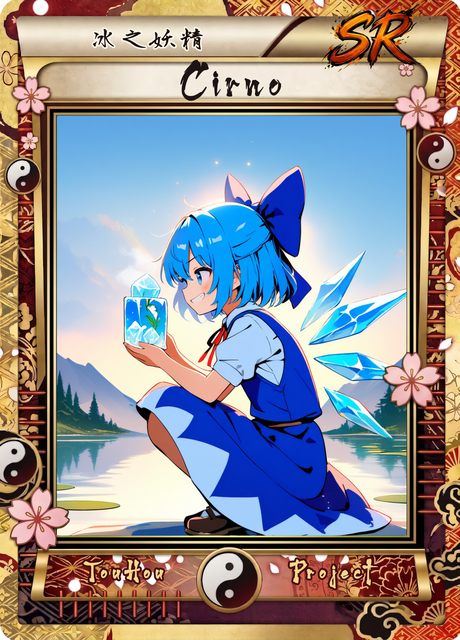
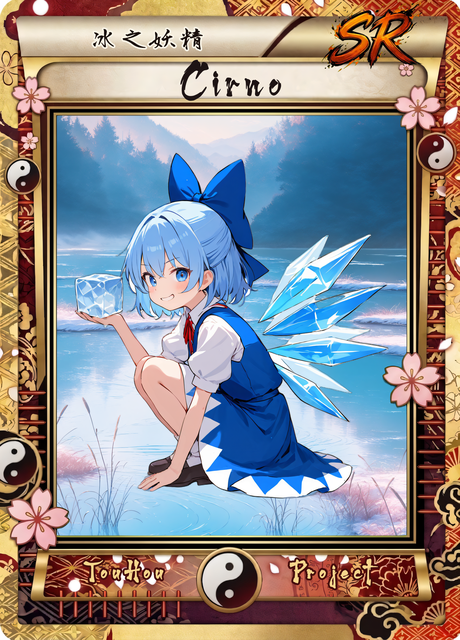
feat: 0.30.014 靈夢、魔理沙、琪露諾 SR / SSR 重生卡面

diff --git a/tools/card_art/layered/hd_card.py b/tools/card_art/layered/hd_card.py
@@ -590,6 +590,173 @@ LAYERS = {
         "char_negative": "patchouli knowledge, purple hair, hat, remilia scarlet",
         "char_scale": 0.8,
     },
+    # 博麗靈夢 SR / SSR (主角，舊版單張生成卡改走高清分層，2026-11-12 草稿)
+    # 萌娘百科外貌：黑髮 (「黑長直」「齊劉海」「長鬢角」，部分作品是短髮)、瞳色不固定 (黑瞳或紅瞳)；
+    # 頭上大蝴蝶結、兩鬢用髮帶綁起 (束鬢、半馬尾)；露肩露腋的無袖巫女服 + 分離袖子、胸前領巾、紅裙 (緋袴)、纏胸布、
+    # 白色短襪 + 瑪麗珍鞋；道具：御幣、符札、封魔針、陰陽玉 (博麗神社最大的秘寶)
+    # make_workflow.BASE 沒寫髮色 ➔ base 補上 black hair、brown eyes、sidelocks、hair tubes、white socks、mary janes
+    # 跟 UR (夜空 + 博麗大結界、正面仰拍、陰陽玉獨立圖層) 拉開：SR 白天神社日常、SSR 黃昏天空中施放符札的動態
+    ("reimu", "SR"): {
+        # SR「博麗神社的巫女」：春天的博麗神社 (鳥居、石階、櫻花)；微微浮在參道上，扛著御幣，輕鬆隨性地笑
+        "bg": ("no humans, scenery, hakurei shrine grounds, huge cherry blossom tree in the foreground center, thick tree trunk, "
+               "grass and fallen petals at the base of the tree, shrine building and red torii behind the tree, stone lanterns, "
+               "falling petals, spring, blue sky, daylight, soft lighting, peaceful, bright, highly detailed, intricate details"),   # 使用者：倚在神社櫻花樹下 ➔ 樹畫在背景，人物坐在樹根
+        "bg_negative": "1girl, person, human, character, face, text, watermark, lowres, worst quality, low quality, blurry, frame, border, night, dark",
+        "base": ("1girl, hakurei reimu, touhou, black hair, long hair, blunt bangs, sidelocks, hair tubes, brown eyes, "
+                 "red bow, large bow, frilled bow, red and white miko outfit, sleeveless, bare shoulders, detached sleeves, wide sleeves, "
+                 "yellow ascot, red skirt, white socks, mary janes"),
+        "char": ("sitting on the ground under a cherry blossom tree, leaning back against the tree trunk, tree trunk behind her, "
+                 "cherry blossom branches above, falling petals, knees up, holding gohei over shoulder, relaxed smile, half-closed eyes, "
+                 "carefree, looking at viewer, full body"),   # 使用者 (2026-11-12)：喜歡 C4 的坐姿，改成倚在神社的櫻花樹下 (樹畫在人物層，去背一起留下)
+        "char_negative": "kirisame marisa, witch hat, blonde hair, wings, multiple girls, magic circle, glowing effects, "
+                         "nsfw, nipples, cleavage",
+        "char_scale": 0.62,
+        "offset": (0.0, 0.17),   # 人物縮小、往下放到樹根
+        
+    },
+    ("reimu", "SSR"): {
+        # SSR「樂園的奇妙巫女」：黃昏的幻想鄉天空，博麗神社在遠遠的下方、櫻花被風捲起；
+        # 斜身飛行、指間夾著符札甩出，兩顆陰陽玉在身旁，堅定的笑 (UR 是正面俯視的強者感，這張是側身的速度感)
+        "bg": ("no humans, scenery, sky above gensokyo, golden hour, sunset, orange and pink clouds, sunlight, light rays, "
+               "hakurei shrine and torii far below on a mountain, cherry blossom petals swirling in the wind, "
+               "wide view, dramatic, warm colors, highly detailed, intricate details"),
+        "bg_negative": "1girl, person, human, character, face, text, watermark, lowres, worst quality, low quality, blurry, frame, border, night",
+        "base": ("1girl, hakurei reimu, touhou, black hair, long hair, blunt bangs, sidelocks, hair tubes, brown eyes, "
+                 "red bow, large bow, frilled bow, red and white miko outfit, sleeveless, bare shoulders, detached sleeves, wide sleeves, "
+                 "yellow ascot, red skirt, white socks, mary janes"),
+        "char": ("flying, dynamic pose, leaning forward, holding gohei, throwing ofuda, ofuda between fingers, "
+                 "two yin yang orbs beside her, determined smile, looking at viewer, wind, sleeves fluttering, "
+                 "hair ribbon fluttering, skirt fluttering, both legs visible, full body"),
+        "char_negative": "kirisame marisa, witch hat, blonde hair, wings, multiple girls, magic circle, barrier, rainbow, "
+                         "nsfw, nipples, cleavage, panties",
+        "char_scale": 0.9,
+    },
+    # ── 霧雨魔理沙 SR / SSR (2026-11-12 從舊的單張生成改走高清分層) ──
+    # 萌娘百科外貌：金色長髮 (及肩到及腰、微捲)，一側編成麻花辮垂在胸前，辮子綁蝴蝶結；瞳色金 (少數作品紅瞳)；
+    # 寬大的黑色三角巫師帽 (尖頂寬簷)，帽上有大蝴蝶結 (多為白色)；黑色魔女裝 + 白圍裙 (紅魔鄉是全身圍裙，之後是半身圍裙)、泡泡袖；
+    # 白短襪 + 樂福鞋 / 瑪麗珍鞋；隨身帶掃帚與迷你八卦爐 (八角形、刻八卦圖)。沒有翅膀、沒有尾巴
+    # BASE 沒有跟萌娘百科衝突，只補上金眼、帽子白蝴蝶結、泡泡袖、半身圍裙、鞋襪 (不寫眼睛顏色的話有機會畫成紅眼)
+    # UR 是夜空 + 騎掃帚 + Master Spark ➔ SR / SSR 都放在白天，SR 站著不騎、SSR 完全不畫掃帚，跟 UR 拉開
+    ("marisa", "SR"): {
+        # SR「普通的魔法使」：原本的構想是白天騎掃帚穿過魔法森林 ➔ 改成白天魔法森林裡自己家 (霧雨魔法店) 門口，
+        # 一手直握掃帚 (刷毛著地)、一手捧著剛採的發光蘑菇，咧嘴笑加眨眼，日常又有朝氣
+        "bg": ("no humans, scenery, forest of magic, giant mushrooms, glowing mushrooms, small cluttered western cottage, wooden sign, "
+               "piles of books and jars by the door, sunlight through trees, light rays, dappled light, moss, ferns, daytime, bright, "
+               "lush green, whimsical, highly detailed, intricate details"),
+        "bg_negative": "1girl, person, human, character, face, broom, witch hat, text, watermark, lowres, worst quality, low quality, blurry, frame, border, night, dark",
+        "base": ("1girl, kirisame marisa, touhou, blonde hair, long hair, wavy hair, single side braid, hair bow, yellow eyes, "
+                 "witch hat, black headwear, white bow on hat, black dress, white shirt, puffy short sleeves, white apron, waist apron, "
+                 "white socks, black shoes"),
+        "char": ("standing, one hand holding a broom upright beside her, broom bristles on the ground, single broom, "
+                 "other hand holding up a glowing mushroom, grin, one eye closed, wink, energetic, cheerful, looking at viewer, "
+                 "hair fluttering, full body"),
+        # 共用的 EXTRA_NEGATIVE 會擋「standing, holding broom」，這張剛好要站著拿掃帚 ➔ 換掉，改成擋騎掃帚
+        "extra_negative": "riding broom, sitting on broom, flying, broom on shoulder",
+        "char_negative": ("red eyes, wings, multiple brooms, two brooms, bristles on both ends, extra hat, floating hat, "
+                          "magic effects, sparkles, stars, laser, mushrooms on ground, alice margatroid, hakurei reimu"),
+        "char_scale": 0.9,
+    },
+    ("marisa", "SSR"): {
+        # SSR「東洋的西洋魔術師」：原本的構想是白天在魔法森林上空高速飛、星星彈幕與魔法陣 ➔ 保留白天藍天 + 森林上空 (跟 UR 的夜空分開)，
+        # 不騎掃帚 (UR 已經騎了)：跳到半空、一手按住帽子、一手把迷你八卦爐往前伸，爐口噴出星星，自信大笑
+        "bg": ("no humans, scenery, above the forest of magic, sea of treetops below, giant mushrooms poking out of the canopy, "
+               "bright blue sky, big white clouds, sunlight, lens flare, wind, flying leaves, daytime, vivid colors, "
+               "highly detailed, intricate details"),
+        "bg_negative": "1girl, person, human, character, face, broom, witch hat, text, watermark, lowres, worst quality, low quality, blurry, frame, border, night, dark",
+        "base": ("1girl, kirisame marisa, touhou, blonde hair, long hair, wavy hair, single side braid, hair bow, yellow eyes, "
+                 "witch hat, black headwear, white bow on hat, black dress, white shirt, puffy short sleeves, white apron, waist apron, "
+                 "white socks, black shoes"),
+        "char": ("midair, jumping, dynamic pose, one hand holding hat brim, other arm stretched forward holding glowing mini-hakkero, "
+                 "octagonal hakkero, star (symbol), stars bursting from the hakkero, confident grin, open mouth, looking at viewer, "
+                 "hair flowing in wind, hat ribbon flowing, skirt fluttering, slightly from below, full body"),
+        # 這張不要掃帚 ➔ 換掉共用的 EXTRA_NEGATIVE (它只擋拿掃帚，沒擋騎掃帚)
+        "extra_negative": "broom, holding broom, riding broom, sitting on broom, broom on shoulder",
+        "char_negative": ("red eyes, wings, extra hat, floating hat, laser, beam, huge magic circle, background scenery, "
+                          "alice margatroid, hakurei reimu, panties, upskirt"),
+        "char_scale": 0.9,
+    },
+    # 琪露諾 SR / SSR (TH06，2026-11-12 草稿，舊單張卡改走高清分層)：外觀照 make_workflow.BASE 與 UR
+    # (萌娘百科這次打不開，沒核對)：藍色短髮、藍眼、藍色大蝴蝶結、白襯衫 + 泡泡短袖、紅色領結、藍色背心裙、
+    # 背後六片冰晶翅膀、小孩身材；萌點：笨蛋⑨、自稱最強、愛凍青蛙、霧之湖
+    # 翅膀：UR 用翅膀層；SR / SSR 先讓人物直接帶冰晶翅膀 (inline_wings，寫法照大妖精)，base 拿掉 BASE 的翅膀標籤，免得跟 inline_wings_tags 重複
+    ("cirno", "SR"): {
+        # SR「冰之妖精」：清晨霧之湖邊 (蘆葦、睡蓮葉)；蹲著得意舉起剛凍住的青蛙 (青蛙包在冰塊裡)，調皮又天真
+        "bg": ("no humans, scenery, misty lake, lakeside, morning fog, reeds, lily pads, calm water, ripples, thin ice on water edge, "
+               "frost on grass, soft sunlight, daytime, bright, pale blue sky, distant forest, pastel colors, highly detailed"),
+        "bg_negative": "1girl, person, human, character, face, wings, frog, animal, text, watermark, lowres, worst quality, low quality, blurry, frame, border, night, dark",
+        "base": ("1girl, cirno, touhou, blue hair, short hair, blue eyes, blue hair bow, large bow, white shirt, puffy short sleeves, "
+                 "red neck ribbon, blue dress, pinafore dress, child, petite"),
+        "char": ("squatting, both feet on ground, holding up a frozen frog, frog in ice block, ice cube, arm raised, proud grin, "
+                 "mischievous, innocent, open mouth, looking at viewer, frost particles around hand, hair fluttering, from side"),
+        "char_negative": "(fairy wings:1.3), insect wings, transparent wings, butterfly wings, angel wings, weapon, staff, wand, "
+                         "water, splash, reeds, lily pad, multiple frogs, danmaku",
+        "inline_wings": True,
+        "inline_wings_tags": "ice wings, six ice crystal wings, ice crystal wings, clear blue ice, wings spread",
+        "char_scale": 0.9,
+    },
+    ("cirno", "SSR"): {
+        # SSR「湖上的冰精女王」：結冰的湖面中間一座冰山，晴空、冰柱和雪花飛舞 (冰山在背景裡，人物站在下方中央的冰山頂上)；
+        # 一手插腰一手比 V、張嘴大笑，自信又得意；冰塊冰柱只當背景與手邊的冰晶，不做成彈幕 (SSR 沒有彈幕)
+        "bg": ("no humans, scenery, frozen lake, ice field, large iceberg in the foreground center, jagged ice peak, icicles, "
+               "ice shards in the air, flying ice chunks, snowflakes, sparkles, clear blue sky, white clouds, wind, "
+               "daytime, bright, crisp, cold, dynamic angle, highly detailed, intricate details"),
+        "bg_negative": "1girl, person, human, character, face, wings, text, watermark, lowres, worst quality, low quality, blurry, frame, border, night, dark",
+        "base": ("1girl, cirno, touhou, blue hair, short hair, blue eyes, blue hair bow, large bow, white shirt, puffy short sleeves, "
+                 "red neck ribbon, blue dress, pinafore dress, child, petite"),
+        "char": ("standing, feet apart, both legs visible, hand on hip, v sign, laughing, open mouth, confident, smug, v-shaped eyebrows, "
+                 "small ice shards swirling around her, frost particles, hair fluttering, dress fluttering, wind, slightly from below"),
+        "char_negative": "(fairy wings:1.3), insect wings, transparent wings, butterfly wings, angel wings, weapon, staff, wand, "
+                         "iceberg, ground, rock, danmaku, bullets",
+        "inline_wings": True,
+        "inline_wings_tags": "ice wings, six ice crystal wings, ice crystal wings, clear blue ice, wings spread",
+        "char_scale": 0.9,
+    },
+    ("mima", "SR"): {
+        # SR「久遠的博麗神社惡靈」(沿用舊 SCENES)：荒廢的舊博麗神社 (青苔、雜草、舊鳥居、午後陽光、螢火蟲)；人物在空中盤腿悠哉飄著、調皮地笑
+        "bg": ("no humans, scenery, old abandoned shinto shrine, overgrown, moss, tall grass, weathered old torii, small stone shrine, stone lanterns, "
+               "afternoon, warm sunlight, light rays through trees, fireflies, peaceful, nostalgic, soft lighting, highly detailed"),
+        "bg_negative": "1girl, person, human, character, face, ghost, text, watermark, lowres, worst quality, low quality, blurry, frame, border, night, dark",
+        "base": ("1girl, mima (touhou), touhou, green hair, very long hair, green eyes, wizard hat, white headwear, "
+                 "blue dress, blue skirt, blue cape, red ribbon, neck ribbon, ghost tail, no legs, holding staff, crescent staff"),
+        "char": ("floating in the air, ghost tail, no legs, relaxed pose, sitting cross-legged in the air, chin resting on hand, "
+                 "mischievous smile, looking at viewer, cape fluttering, hair flowing, full body"),
+        "char_negative": "(legs:1.3), (feet:1.3), shoes, socks, thighhighs, standing, kneeling, wings, marisa, kirisame marisa, blonde hair",
+        "char_scale": 0.9,
+    },
+    ("mima", "SSR"): {
+        # SSR「祟高而冷酷的惡靈」(沿用舊 SCENES)：舊神社上空，藍天白雲；舉起月牙杖施法、冷笑、半閉眼，披風被風吹起，四周飄著靈體光絲
+        # N~SSR 沒有彈幕：舊 SCENES 寫的 star danmaku / magic circle 拿掉，只留杖頭的藍色魔法光 (SSR 的閃光 build_cards 會自動加)
+        "bg": ("no humans, scenery, sky above an old shinto shrine, shrine roof and torii far below, blue sky, dramatic clouds, wind, "
+               "spectral wisps, faint blue mist, light rays, dynamic, highly detailed, intricate details"),
+        "bg_negative": "1girl, person, human, character, face, ghost, text, watermark, lowres, worst quality, low quality, blurry, frame, border, night",
+        "base": ("1girl, mima (touhou), touhou, green hair, very long hair, green eyes, wizard hat, white headwear, "
+                 "blue dress, blue skirt, blue cape, red ribbon, neck ribbon, ghost tail, no legs, holding staff, crescent staff"),
+        "char": ("floating, ghost tail, no legs, raising staff, crescent staff, casting spell, glowing staff tip, blue magic, "
+                 "cold smile, half-closed eyes, looking down at viewer, cape fluttering, hair flowing, wind, dynamic pose, dynamic angle, full body"),
+        "char_negative": "(legs:1.3), (feet:1.3), shoes, socks, thighhighs, standing, wings, marisa, kirisame marisa, blonde hair, danmaku, magic circle",
+        "char_scale": 0.9,
+    },
+    ("mima", "UR"): {
+        # UR「憑依博麗之陰影」(沿用舊 SCENES)：雲層之上的夜空、背後巨大的月牙 / 滿月 (月光下會變強)；
+        # 杖高舉過頭、眼睛發光、自信的邪笑，全身藍色靈體光焰，披風與長髮大幅翻飛。背景壓暗紫藍色，彈幕才跳得出來
+        "bg": ("no humans, scenery, night sky above the clouds, sea of clouds, huge crescent moon, bright moonlight, starry sky, "
+               "faint blue spectral flames, ghostly mist, deep navy blue and purple, dark, dramatic, cinematic, majestic, highly detailed, intricate details"),
+        "bg_negative": "1girl, person, human, character, face, ghost, text, watermark, lowres, worst quality, low quality, blurry, frame, border, daytime, blue sky, sun",
+        "base": ("1girl, mima (touhou), touhou, green hair, very long hair, green eyes, wizard hat, white headwear, "
+                 "blue dress, blue skirt, blue cape, red ribbon, neck ribbon, ghost tail, no legs, holding staff, crescent staff"),
+        "char": ("floating high, ghost tail, no legs, staff raised overhead, crescent staff, glowing staff, "
+                 "glowing eyes, green eyes, confident, evil smile, menacing, looking at viewer, "
+                 "ghostly blue aura, spectral flames, cape billowing, hair flowing, backlighting, rim light, dynamic angle, from below, full body"),
+        "char_negative": "(legs:1.3), (feet:1.3), shoes, socks, thighhighs, standing, marisa, kirisame marisa, blonde hair, magic circle, danmaku, happy",
+        # 封魔錄第三形態的六隻紫色翅膀 (萌娘百科萌點有翅膀)：要的話參照 remilia 的寫法打開，但會增加畫壞的機率
+        # "inline_wings": True,
+        # "inline_wings_tags": "six wings, multiple wings, purple wings, wings spread",
+        "style": "twilight",   # 新風格提案 (danmaku.py 要另外做)；還沒做之前先用 "stars"
+        "density": 0.72,
+        "glow": 0.55,
+        "char_scale": 0.8,
+        "light": {"dark": 0.35, "eyes": [], "eye_color": (90, 255, 150), "eye": 1.3, "eye_size": 3},   # 綠瞳發光；eyes 座標等人物定案後量
+    },
 }
 
 

diff --git a/Utils/version.py b/Utils/version.py
@@ -6,4 +6,4 @@
 
 每次 commit 都要更新這裡和 CHANGELOG.md。
 """
-VERSION = "0.30.013"
+VERSION = "0.30.014"

diff --git a/CHANGELOG.md b/CHANGELOG.md
@@ -13,6 +13,16 @@
 
 ---
 
+## 0.30.014 — 2026-11-12：靈夢、魔理沙、琪露諾 SR / SSR 重生 (筆電)，三人卡面全部高清分層
+- **⛩ 博麗靈夢**：SR 神社櫻花樹下倚著樹幹坐 (背景 E1 + 人物 D1)；SSR 黃昏空中施放符札 (B2 + C1)。外貌照萌娘百科補黑髮、髮帶束鬢、白襪瑪麗珍鞋。
+- **🧹 霧雨魔理沙**：SR「普通的魔法使」魔法森林蘑菇屋前眨眼笑 (B1 + C4)；SSR「東洋的西洋魔術師」巨樹與蘑菇間跳起、雙手八卦爐 (B1 + C2)。
+- **❄ 琪露諾**：SR「冰之妖精」霧湖邊蹲著拿冰塊 (B1 + C1)；SSR「湖上的冰精女王」冰山前比 V (B2 + C3)。冰翅膀直接畫在人物上 (`inline_wings`)，去背後有保留。
+- `hd_card.py` 加了魅魔 SR / SSR / UR 的草稿設定 (UR 用新彈幕風格 `twilight`，還沒寫)，候選生成中。
+- 問題：
+  - 靈夢 SR 要倚著樹，人物層去背把樹和草地一起切掉；試過保留遮罩會留下一塊方形 ➔ 樹改畫在背景，人物照常去背、用 `char_scale` 0.62 / `offset` 放到樹根，使用者選 E1 + D1。
+  - 筆電 ComfyUI 兩次在生圖時同時去背而崩潰 ➔ 角色之間先停生圖、清佇列再合成，合成完再接著跑下一位 (寫進 `docs/card-art.md`)。
+  - pull 時 `hd_card.py` 跟桌機新增的露米婭 / 小惡魔設定衝突 ➔ 兩邊都保留。
+
 ## 0.30.013 — 2026-11-12：露米婭 R / SR / SSR、小惡魔 N / R / SR 卡面 (桌機)，TH06 全部完成
 - **🌑 露米婭**：R「宵暗的妖怪」黃昏森林小路張開雙臂 (B1 + C1)；SR「暗夜的吞噬者」無月夜林、身邊黑暗漩渦 (B1 + C1)；SSR「封印解放之宵暗」紅月 + 黑暗觸手背景 (B1 + C2)。外貌照萌娘百科 (金色短髮、紅眼、紅髮帶 = 封印符、黑白洋裝)，原作沒有翅膀。
 - **📚 小惡魔**：N「大圖書館的使魔」抱一疊書 (B1 + C1)；R「司書的助手小惡魔」書架前「噓～」(B1 + C1)；SR「黑魔法秘典守護者」禁書區抱發光魔法書、紫色魔法陣 (B1 + C3)。原作沒有立繪，照同人通用外觀 (紅長髮、頭翼 + 背翼、黑背心紅領帶)，翅膀直接寫在人物提示裡。

diff --git a/TODO.md b/TODO.md
@@ -7,7 +7,7 @@
 - **神社廚房**：採集 (用體力) → 料理 → 招待參拜客 (12 種客人都有頭像)、雜貨店。
 - **活動**：活動系統 + 🔴 紅霧異變 (測試中，沒有結束時間)；各機制都有「一般池 + 活動預留位」(見 `Events/README.md`)。
 - **通知**：/notify 主動私訊 (每 10 分鐘檢查)。
-- **卡面**：全部改走高清分層流程 (第 1 節)。TH06 全部完成 (琪露諾只有 UR 是新版)。
+- **卡面**：全部改走高清分層流程 (第 1 節)。TH06 全部完成。
 - **開發工具**：botcli / discord_peek 測試、主控台指令、重載控制台；702 項測試全過。
 
 ## 下一步建議 (擇一)
@@ -22,8 +22,8 @@
 
 | 分類 | 角色 | 階級 | 狀態 |
 |---|---|---|---|
-| Main | 靈夢 reimu | SR / SSR / UR | UR ✅ (2026-11-11 彈幕 3 原點、背景壓暗)；SR、SSR 重生 |
-| Main | 魔理沙 marisa | SR / SSR / UR | UR ✅；SR、SSR 重生 |
+| Main | 靈夢 reimu | SR / SSR / UR | ✅ 全部完成 (SR、SSR 2026-11-12 重生) |
+| Main | 魔理沙 marisa | SR / SSR / UR | ✅ 全部完成 (SR、SSR 2026-11-12 重生) |
 | TH01 | 魅魔 mima | SR / SSR / UR | 全部重生 (幽靈尾巴，模型常畫出腳) |
 | TH02 | 玄爺 genji | N / R / SR | 全部重生 (陸龜、白鬍子) |
 | TH02 | 里香 rika | N / R / SR | 全部重生 |
@@ -37,7 +37,7 @@
 | TH05 | 神綺 shinki | SSR / UR / LR | LR 已是分層 (同上)；SSR、UR 重生 (UR 構圖要跟 LR 拉開) |
 | TH05 | 雪與舞 yuki_mai | N / R / SR | 全部重生 (雙人：兩人各自生成去背再合成) |
 | TH05 | 夢子 yumeko | R / SR / SSR | 全部重生 |
-| TH06 | 琪露諾 cirno | SR / SSR / UR | UR ✅ (dim 0.55)；SR、SSR 重生 |
+| TH06 | 琪露諾 cirno | SR / SSR / UR | ✅ 全部完成 (SR、SSR 2026-11-12 重生) |
 | TH06 | 大妖精 daiyousei | N / R / SR | ✅ 0.30.002 完成 (人物直接帶翅膀) |
 | TH06 | 芙蘭朵露 flandre | SSR / UR / LR | ✅ 2026-11-11 (人物直接帶翅膀；LR 稱號改「破壞萬物的禁忌之妹」) |
 | TH06 | 小惡魔 koakuma | N / R / SR | ✅ 0.30.013 (桌機；人物直接帶頭翼 + 背翼) |

diff --git a/docs/card-art.md b/docs/card-art.md
@@ -10,6 +10,8 @@
 - **UR / LR**：彈幕密度使用者偏好少一點 (UR 0.7～0.75、LR 0.7)；背景偏暗、跟彈幕顏色拉開 (紅彈幕配暗紫黑背景)；人物背光 + **眼睛發光** (`light.eyes` 用 10_char 座標量，`eye` 1.3、`eye_size` 3)。局部發光 (水晶、武器) 先做給使用者看，他不喜歡就拿掉 (蕾米莉亞神槍發光偏粉紅，選回原版)。
 - **合成完傳整張卡 (15_card 縮圖) 給使用者看；他問特效再傳 16_card.gif**。
 - **定案才推**：使用者說「定案推送」才 `build_cards.py <角色>` ➔ 更新 `Utils/version.py` (+1)、`CHANGELOG.md`、`TODO.md` 第 1 節、本文件 ➔ `python tests/run_all.py` ➔ `git pull --rebase` ➔ commit + push。試作圖不推。
+- **筆電 (16GB RAM) 生圖時不要同時去背 / 合成**：ComfyUI 生圖約佔 4GB、去背 (BiRefNet CPU) 再吃好幾 GB，2026-11-12 兩次同時跑都讓 ComfyUI 直接崩潰 (Fatal Python error: Aborted)。先讓佇列跑完或暫停，再合成；桌機 16GB VRAM / 記憶體較多沒遇到。
+- **背景道具要跟人物互動時 (倚著樹、坐在椅子上)**：人物層白底去背會把樹、地面一起切掉 ➔ 把樹畫在背景，人物照常去背、用 `char_scale` / `offset` 放到樹根；或像咲夜 / 蕾米莉亞的椅子一樣讓道具留在人物層 (去背模型通常會保留緊貼人物的家具)。
 - **兩台分工**：一台負責一位角色的整套流程；每個階段 (候選完成、使用者選圖、合成完、推送) 都用 SendMessage 跟另一台互報一則短訊。
 
 ## ⭐ 現行規則 (2026-11-11 使用者指定，取代下面舊的「UR / LR 才分層」說法)
